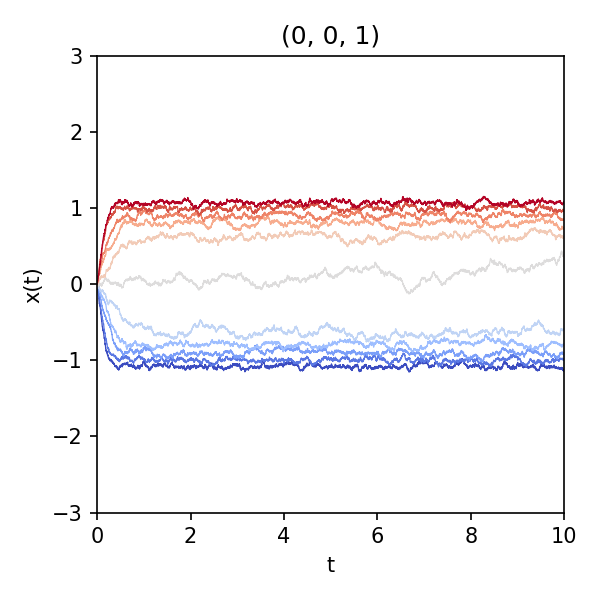
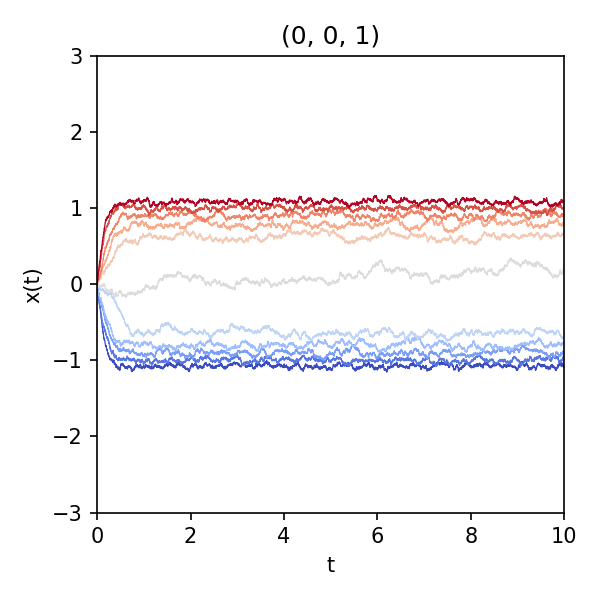
reorganization and elitism change

Changed region(s): [[0.15, 0.33, 0.96, 0.63]]

diff --git a/Models/genetic_algorithm.py b/Models/genetic_algorithm.py
@@ -255,14 +255,22 @@ def population_loss_sharded(pop, z, devices, **kw):
 # --- Genetic algorithm ----------------------------------------------------
 @torch.no_grad()
 def select_and_breed(pop, losses, std, n_elite=5):
-    """Keep the n_elite lowest-loss computers, clone them back to size P, and
-    mutate every clone (fan-in-scaled std). Returns the next-gen population."""
+    """Elitist selection. Carry the n_elite lowest-loss computers over
+    *unmutated* (elitism), and fill the remaining P - n_elite slots with mutated
+    clones of the elite (fan-in-scaled std). Keeping the elite unchanged means a
+    good solution is never lost to a bad mutation, so the incumbent best can only
+    improve or hold -- this markedly speeds and stabilizes convergence versus
+    mutating every clone. Returns the next-gen population (size P), with the
+    elite occupying the first n_elite slots."""
     P = losses.shape[0]
     elite = torch.argsort(losses)[:n_elite]                # indices of best
-    # Each elite produces ~P / n_elite offspring (ceil then trim, so the
-    # population stays exactly size P even when P % n_elite != 0).
-    per_parent = -(-P // n_elite)                          # ceil division
-    parents = elite.repeat_interleave(per_parent)[:P]      # (P,) parent index per slot
+    n_child = P - n_elite                                  # mutated-offspring slots
+    # Each elite produces ~n_child / n_elite offspring (ceil then trim, so the
+    # population stays exactly size P even when n_child % n_elite != 0).
+    per_parent = -(-n_child // n_elite)                    # ceil division
+    child_parents = elite.repeat_interleave(per_parent)[:n_child]
+    # Parent index per slot: elite first (kept as-is), then their offspring.
+    parents = torch.cat([elite, child_parents])            # (P,)
 
     new = {
         "W": pop["W"][parents].clone(),
@@ -270,12 +278,14 @@ def select_and_breed(pop, losses, std, n_elite=5):
         "f": pop["f"][parents].clone(),
         "J": [Wmat[parents].clone() for Wmat in pop["J"]],
     }
-    # Mutate: add C^{-1/2} N(0, MUT_STD) to every parameter.
-    new["W"] += std["W"] * torch.randn_like(new["W"])
-    new["b"] += std["b"] * torch.randn_like(new["b"])
-    new["f"] += std["f"] * torch.randn_like(new["f"])
+    # Mutate offspring only (slots n_elite:); the elite (slots :n_elite) are
+    # carried over unchanged. Mutation adds C^{-1/2} N(0, MUT_STD) per parameter.
+    ch = slice(n_elite, P)
+    new["W"][ch] += std["W"] * torch.randn_like(new["W"][ch])
+    new["b"][ch] += std["b"] * torch.randn_like(new["b"][ch])
+    new["f"][ch] += std["f"] * torch.randn_like(new["f"][ch])
     for Wmat, sJ in zip(new["J"], std["J"]):
-        Wmat += sJ * torch.randn_like(Wmat)
+        Wmat[ch] += sJ * torch.randn_like(Wmat[ch])
     return new
 
 